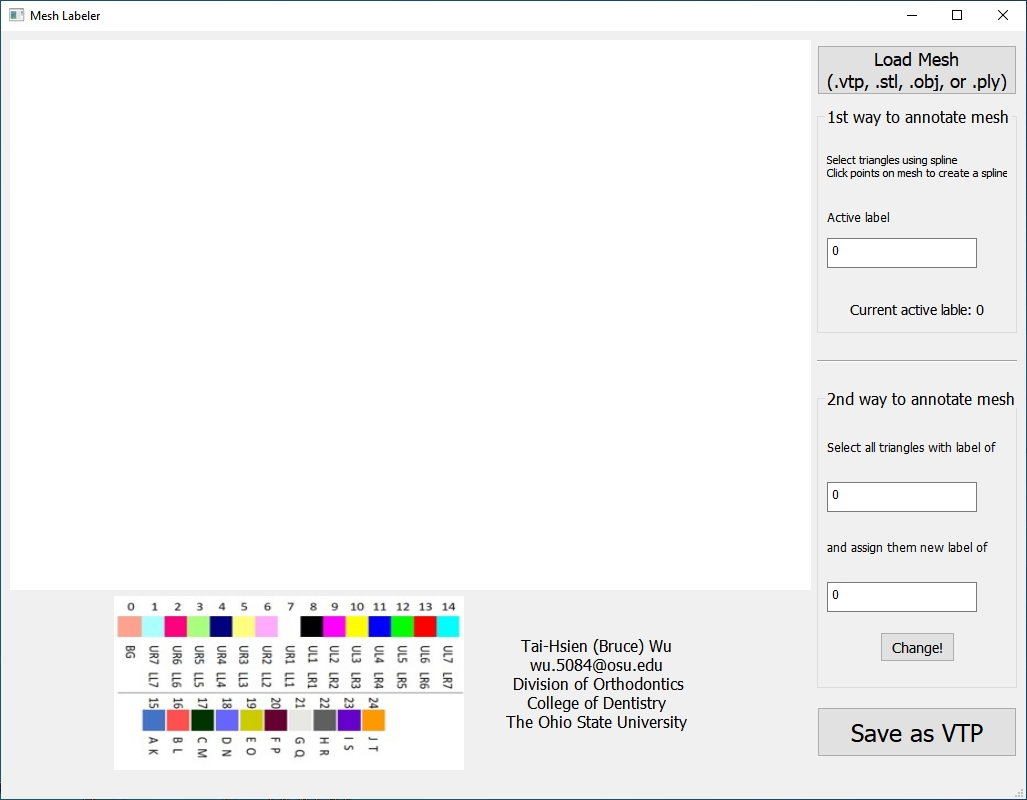
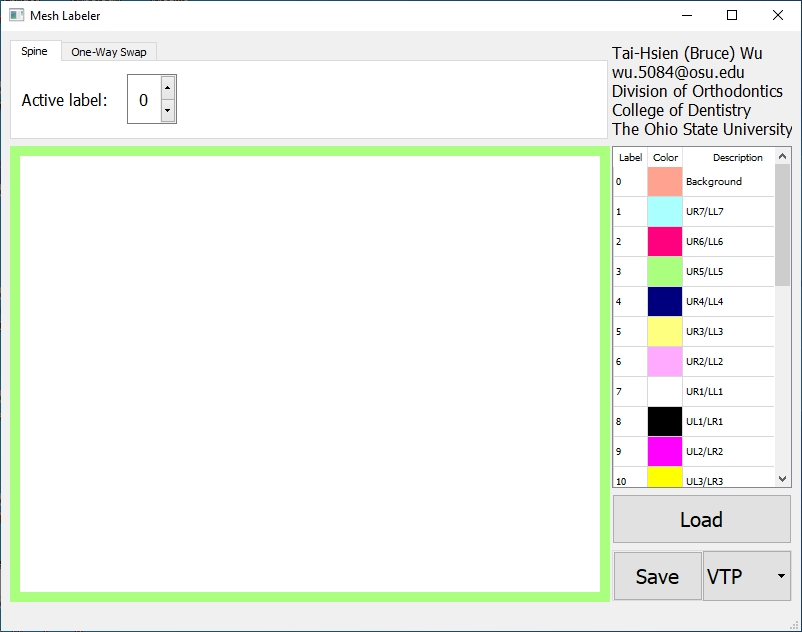
released Mesh Labeler v2.0

Changed region(s): [[0.0, 0.0, 1.0, 1.0], [0.0, 0.1503, 0.1247, 0.1804]]

diff --git a/README.md b/README.md
@@ -1,4 +1,4 @@
-Mesh Labeler – User Manual
+Mesh Labeler2 – User Manual
 ==========================
 
 Created by [Tai-Hsien Wu](https://github.com/Tai-Hsien) at the Ohio State University.
@@ -8,35 +8,32 @@ This project is mainly based on [Visualization Toolkit (VTK)](https://vtk.org/) 
 This program is originally developed to conveniently label/annotate dental mesh model. It can also work on any other type of mesh model.
 
 ------------
+Current version: 2.0
 
-1.  Download installer version from
-	<https://drive.google.com/file/d/1CoG3lq2MbpTl00IV0T6R4icbxWD-2i-f/view?usp=sharing>
-	or portable version from
-    <https://drive.google.com/file/d/1Cp4Tl0noN039VGEDD8uJQ06R18wD-ypz/view?usp=sharing>
+------------
 
-2.  Install the program or extract ZIP file.
+1.  Download portable version from
+    <https://drive.google.com/file/d/1FmUJS8F0opBWxfte7yVgSTkTfnOHj6oe/view?usp=sharing>
 
--   For the installer version, execute **Mesh_Labeler_Setup.exe** to install this program. After that, you can find a shortcut in the Windows Start menu.
-
--   For the portable version, extract the ZIP file, and there will be a folder named
-    **Mesh_Labeler_win_v1.1**. Execute **Mesh_Labeler.exe** to open the program. It might take a few seconds to launch (sometimes longer). 
-	
--   Note: Sometimes the portable version needs a very long time to open or cannot open due to the antivirus block. Please use the installer version if possible.
+2.  Extract ZIP file, and there will be a folder named
+    **Mesh_Labeler2_portable**. Execute **Mesh_Labeler.exe** to open the program. It might take a few seconds to launch (sometimes longer). 
 	
 3. 	Once the program is launched, you will see the user interface, as shown below.
 
 ![Figure 1. The user interface of **Mesh Labeler**](./figure1.jpg)
 
-4.  Use the top-right button to open a mesh file. Currently, the program supports VTP
-    (with an attribute named **Label** , a cell scalar array) and STL, OBJ, and PLY files. There are four examples (Example_01.vtp, Example_02.stl, Example_03.obj, and Example_04.ply) that you can download via my github. Note: Since STL, OBJ, PLY files do not have the attribute **Label**.
-    The program will initially generate the cell scalar array (i.e., **Label**)
-    and assign value of 0 (i.e., all background) to the array for each cell
-    (i.e., for each triangle) when loading these types of files. The
-    screenshot after loading an appropriate VTP will look like below.
+4.  Use the bottom-right button **Load** to open a mesh file. Currently, the program supports VTP
+    (with an attribute named **Label** , a cell scalar array) and STL, OBJ, and PLY files. There are four examples (Example_01.vtp, Example_02.stl, Example_03.obj, and Example_04.ply) that you can download via my github.
+	Note: For those files that do not contain attribute **Label** (e.g., STL, OBJ, PLY), the program will initially generate a cell scalar array called **Label** 
+    and assign 0 (i.e., all background) to the array for each cell
+    (i.e., for each triangle) after loading them. The screenshot after loading a VTP with the cell arrary **Label** will look like below.
 
 ![Figure 2. After loading a suitable VTP file, you can see the model in the center of the window.](./figure2.jpg)
 
-5.  The view on the scene can be changed by using various mouse actions, as
+5.  From Version 2, users can define the the number of labels, label color, and label description by themselve. To do it, please modifiy the **colormap.csv** in the folder **Mesh_Labeler2_portable**, which is a CSV file containing five columns: Label, R, G, B, Descriptions.
+	Please keep the headers as the default file. Each row corresponds a label.
+
+6.  The view on the scene can be changed by using various mouse actions, as
     follows:
 
 -   Rotating the mouse wheel upwards will zoom in, and downwards will zoom out.
@@ -47,29 +44,24 @@ This program is originally developed to conveniently label/annotate dental mesh 
 -   Holding the left mouse button down and dragging will rotate the camera/actor
     in the direction moved.
 
-6.  There are two ways to annotate a mesh, described as follows.
+7.  There are two methods to annotate a mesh. User can go for each method by select the tab. Different methods have different input under their tabs.
 
--   1st way: Change label by selecting cells (triangles)
+-   Spline Method: Change label by selecting cells (triangles)
 
 The simplest way to select cells is to right-click on a cell. The selected cells are highlighted by grey color. Right-click on a selected cell can cancel its selection.
 An advanced way to select cells is to press "s" to enter "Spline model", where you can add points by left click on the mesh. Once you decide to use the selected points (number of points should be larger than 2) to generate a spline, press "Enter". All cells within this spline will be highlighted.
- Press "c" to clean the current selection. Before you execute the change, please make sure the *active label* is what you plan to apply. The default *active label* is 0. You can change it in the textbox on the top right.
-When you satisfy the selection, press "e" to execute the change which assigns the value of *active label* on those selected cells. Please follow the colormap in the bottom window
-to assign/fix the label of each cell for a dental tooth model.
+ Press "c" to clean the current selection. Before you execute the change, please make sure the *active label* is what you plan to apply. The default *active label* is 0. You can change it throguth the spinBox under the Spline tab.
+When you satisfy the selection, press "e" to execute the change which will assign the value of *active label* on those selected cells. Please follow the colormap to assign/fix the label of each cell for the mesh.
 
--   2nd way: Change all cells with a specific label number one shot
+-   One-Way Swap Method: Change all cells with a specific label one-shot
 
-In this way, we can entirely change cells those labels are a specific value to be
-another value. There are two textboxes on the middle-right side. Once they read valid label numbers, click "Change!"
-button. Then, all cells with the old label will be changed to be a new label.
+In this way, we can entirely change cells from one label to another label.
+There are two spinBoxs (i.e., *Original label* and *New label*) under the One-Way Swap tab. Once they are all set, click **Change!** button; then, all cells with the original label will be changed to be the new label.
 
--	Note that the valid range for a label is [0, 24] for *active label* in the 1st way and two labels in the 2nd way.
-
-7.  Once everything is done, you can save the result by using the **Save VTP
-    file** button. The program will save the result in the VTP format with the
-    **Label** cell scalar attribute.
+8.  Once everything is done, you can save the result by using the **Save** button. The default extension file is **VTP**, which will save the result in the VTP format with the cell array **Label**.
+	If the extension file is **STL** or **OBJ**, Mesh Labeler will save each label to an individual **STL** or **OB** file. For example, a 15-class mesh model will output 15 STL files.
 
 Problems?
 --------
 
-If you have any questions about using this software, please feel free to open an issue or email me.
+If you have any questions about using Mesh Labeler, please feel free to open an issue or email me.
